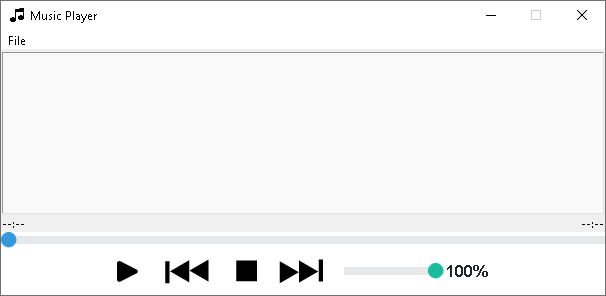
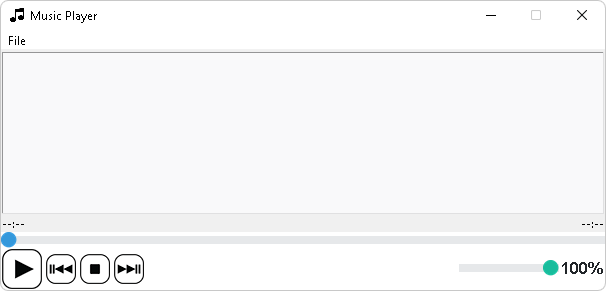
Redesigned buttons images New functionality added Fixed getting error when button is clicked and no audio is added before

Changed region(s): [[0.0, 0.7423, 1.0, 1.0], [0.0, 0.0, 1.0, 0.0619], [0.0, 0.1237, 1.0, 0.1856]]

diff --git a/PROJECT GUIs/MUSIC PLAYER/music_player.py b/PROJECT GUIs/MUSIC PLAYER/music_player.py
@@ -39,10 +39,12 @@ class Music_Player:
         self.master.title('Music Player')
 
         self.play_image = PhotoImage(file=self.resource_path('Play.png'))
-        self.pause_image = PhotoImage(file=self.resource_path('Pause.png'))
-        self.previous_image = PhotoImage(file=self.resource_path('Previous.png'))
         self.stop_image = PhotoImage(file=self.resource_path('Stop.png'))
         self.next_image = PhotoImage(file=self.resource_path('Next.png'))
+        self.mute_image = PhotoImage(file=self.resource_path('Mute.png'))
+        self.pause_image = PhotoImage(file=self.resource_path('Pause.png'))
+        self.unmute_image = PhotoImage(file=self.resource_path('Unmute.png'))
+        self.previous_image = PhotoImage(file=self.resource_path('Previous.png'))
 
         self.menu = Menu(self.master)
         self.file_menu = Menu(self.menu, tearoff=0)
@@ -78,21 +80,30 @@ class Music_Player:
         self.volume_label_var = StringVar()
         self.volume_label_var.set('100%')
         self.volume_var.set(100)
-        self.buttons_frame = Frame(self.master)
+
+        self.bottom_frame = Frame(self.master)
+        self.bottom_frame.pack(side=BOTTOM, fill='x')
         self.buttons_attributes = {'bd': '0', 'bg': 'white', 'activebackground': 'white', 'takefocus': False}
+
+        self.buttons_frame = Frame(self.bottom_frame)
         self.play_button = Button(self.buttons_frame, image=self.play_image, **self.buttons_attributes, command=self.play_or_pause_music)
         self.play_button.pack(side=LEFT)
         self.previous_button = Button(self.buttons_frame, image=self.previous_image, **self.buttons_attributes, command=lambda: self.prev_next_song(button_name='prev'))
-        self.previous_button.pack(side=LEFT, padx=20, ipadx=5, ipady=5)
+        self.previous_button.pack(side=LEFT, padx=2, ipady=5)
         self.stop_button = Button(self.buttons_frame, image=self.stop_image, **self.buttons_attributes, command=self.stop)
         self.stop_button.pack(side=LEFT)
         self.next_button = Button(self.buttons_frame, image=self.next_image, **self.buttons_attributes, command=self.prev_next_song)
-        self.next_button.pack(side=LEFT, padx=20)
-        self.volume_slider = ttk.Scale(self.buttons_frame, from_=0, to=100, variable=self.volume_var, style='success.Horizontal.TScale', takefocus=False, command=self.change_volume)
+        self.next_button.pack(side=LEFT, padx=2)
+        self.buttons_frame.pack(side=LEFT)
+
+        self.volume_frame = Frame(self.bottom_frame)
+        self.mute_unmute_button = Button(self.volume_frame, image=self.unmute_image, **self.buttons_attributes, command=self.mute_unmute_volume)
+        self.mute_unmute_button.pack(side=LEFT)
+        self.volume_slider = ttk.Scale(self.volume_frame, from_=0, to=100, variable=self.volume_var, style='success.Horizontal.TScale', takefocus=False, command=self.change_volume)
         self.volume_slider.pack(side=LEFT)
-        self.volume_label = Label(self.buttons_frame, textvariable=self.volume_label_var, width=4, font=font.Font(weight='bold'))
+        self.volume_label = Label(self.volume_frame, textvariable=self.volume_label_var, width=4, font=font.Font(weight='bold'))
         self.volume_label.pack(side=LEFT)
-        self.buttons_frame.pack(side=BOTTOM, pady=5, expand=False)
+        self.volume_frame.pack(side=RIGHT)
 
         self.initial_position()
 
@@ -100,6 +111,8 @@ class Music_Player:
         self.master.bind('<Return>', self.return_bind)
         self.master.bind('<Control-o>', self.open_files)
         self.master.bind('<Control-O>', self.open_files)
+        self.master.bind('<m>', self.mute_unmute_volume)
+        self.master.bind('<M>', self.mute_unmute_volume)
         self.master.bind('<Key>', self.up_down_direction)
         self.master.bind('<Control-p>', self.get_playlist)
         self.master.bind('<Delete>', self.remove_from_list)
@@ -259,59 +272,59 @@ class Music_Player:
     def play_or_pause_music(self, event=None):
         '''Play or pause audio when play or pause button is pressed'''
 
-        if not self.files:
-            messagebox.showerror('ERR', 'No audio found to play')
-            return
+        try:
+            if self.is_playing is None:  # When any audio is not played before
+                curr_sel = self.audio_list.curselection()
 
-        if self.is_playing is None:  # When any audio is not played before
-            curr_sel = self.audio_list.curselection()
+                if curr_sel:
+                    curr_sel = curr_sel[0]
 
-            if curr_sel:
-                curr_sel = curr_sel[0]
+                else:
+                    curr_sel = 0
 
-            else:
-                curr_sel = 0
+                self.current_playing_index = self.select_index = curr_sel
+                self.audio_list.selection_set(self.current_playing_index)
+                self.audio_list.itemconfig(self.current_playing_index, bg='grey', fg='white')
+                self.audio_list.selection_clear(0, 'end')
+                self.song_name = self.audio_list.get(self.current_playing_index)
+                self.current_song_path = self.files[self.song_name]
 
-            self.current_playing_index = self.select_index = curr_sel
-            self.audio_list.selection_set(self.current_playing_index)
-            self.audio_list.itemconfig(self.current_playing_index, bg='grey', fg='white')
-            self.audio_list.selection_clear(0, 'end')
-            self.song_name = self.audio_list.get(self.current_playing_index)
-            self.current_song_path = self.files[self.song_name]
+                self.is_playing = True  # Here, True represents that the music is being played.
+                img = self.pause_image
+                mixer.music.load(self.current_song_path)  # Loading selected file for playing
+                mixer.music.play()  # Start playing loaded file
 
-            self.is_playing = True  # Here, True represents that the music is being played.
-            img = self.pause_image
-            mixer.music.load(self.current_song_path)  # Loading selected file for playing
-            mixer.music.play()  # Start playing loaded file
+                self.total_time = MP3(self.current_song_path).info.length  # Getting audio length
+                self.seek_scale.config(to=int(self.total_time))
+                self.seek_var.set(0)
+                self.audio_list.see(self.current_playing_index)  # Scrolling to currently playing audio
+                self.total_time_var.set(time.strftime('%H:%M:%S', time.gmtime(self.total_time)))
+                self.audio_list.selection_clear(0, 'end')
 
-            self.total_time = MP3(self.current_song_path).info.length  # Getting audio length
-            self.seek_scale.config(to=int(self.total_time))
-            self.seek_var.set(0)
-            self.audio_list.see(self.current_playing_index)  # Scrolling to currently playing audio
-            self.total_time_var.set(time.strftime('%H:%M:%S', time.gmtime(self.total_time)))
-            self.audio_list.selection_clear(0, 'end')
+                if self.current_playing_index != len(self.files) - 1:
+                    self.eof = False  # Here, setting self.eof to False means last song is not being played yet
 
-            if self.current_playing_index != len(self.files) - 1:
-                self.eof = False  # Here, setting self.eof to False means last song is not being played yet
+                if self.scale_timer:
+                    self.master.after_cancel(self.scale_timer)
 
-            if self.scale_timer:
+                self.update_scale()
+
+            elif self.is_playing is True:  # Pausing audio when another audio is playing
+                mixer.music.pause()
+                img = self.play_image
+                self.is_playing = False
                 self.master.after_cancel(self.scale_timer)
 
-            self.update_scale()
+            elif self.is_playing is False:  # Resume playing audio from where the audio is paused
+                self.is_playing = True
+                img = self.pause_image
+                mixer.music.play(start=self.seek_var.get())
+                self.update_scale()
 
-        elif self.is_playing is True:  # Pausing audio when another audio is playing
-            mixer.music.pause()
-            img = self.play_image
-            self.is_playing = False
-            self.master.after_cancel(self.scale_timer)
+            self.play_button.config(image=img)
 
-        elif self.is_playing is False:  # Resume playing audio from where the audio is paused
-            self.is_playing = True
-            img = self.pause_image
-            mixer.music.play(start=self.seek_var.get())
-            self.update_scale()
-
-        self.play_button.config(image=img)
+        except TclError:  # when user tries to play audio when no audio was added before
+            pass
 
     def stop(self, event=None):
         '''Stop playing audio'''
@@ -397,32 +410,32 @@ class Music_Player:
     def prev_next_song(self, event=None, button_name=None):
         '''Play previous and present audio present in list-box'''
 
-        if not self.files:
-            messagebox.showerror('ERR', 'No song to play')
-            return
+        try:
+            if self.current_playing_index > -1:
+                from_list_box = self.variable.get()
 
-        if self.current_playing_index > -1:
-            from_list_box = self.variable.get()
+                if button_name == 'prev':  # If previous buttons is clicked
+                    if self.current_playing_index == 0:
+                        return
 
-            if button_name == 'prev':  # If previous buttons is clicked
-                if self.current_playing_index == 0:
-                    return
+                    self.audio_list.itemconfig(self.current_playing_index, bg='white', fg='purple')
+                    self.current_playing_index -= 1
 
-                self.audio_list.itemconfig(self.current_playing_index, bg='white', fg='purple')
-                self.current_playing_index -= 1
+                else:  # If next button is clicked
+                    if self.current_playing_index == len(from_list_box) - 1:
+                        return
 
-            else:  # If next button is clicked
-                if self.current_playing_index == len(from_list_box) - 1:
-                    return
+                    self.audio_list.itemconfig(self.current_playing_index, bg='white', fg='purple')
+                    self.current_playing_index += 1
 
-                self.audio_list.itemconfig(self.current_playing_index, bg='white', fg='purple')
-                self.current_playing_index += 1
+                self.audio_list.selection_clear(0, 'end')
+                self.audio_list.see(self.current_playing_index)
+                self.audio_list.selection_set(self.current_playing_index)
+                self.is_playing = None
+                self.play_or_pause_music()
 
-            self.audio_list.selection_clear(0, 'end')
-            self.audio_list.see(self.current_playing_index)
-            self.audio_list.selection_set(self.current_playing_index)
-            self.is_playing = None
-            self.play_or_pause_music()
+        except TclError:
+            pass
 
     def get_playlist(self, event=None):
         '''Get audio path stored in a file'''
@@ -478,6 +491,25 @@ class Music_Player:
         gmtime = time.gmtime(self.total_time - self.current_pos)
         self.total_time_var.set(time.strftime('-%H:%M:%S', gmtime))
         self.rem_timer = self.master.after(500, self.change_time)
+
+    def mute_unmute_volume(self, event=None):
+        '''Mute and Unmute volume'''
+
+        if self.previous_volume is None:  # Volume is not mute before
+            self.previous_volume = int(self.volume_label_var.get()[:-1])
+            self.mute_unmute_button.config(image=self.mute_image)
+            self.volume_slider.config(state='disabled')
+            self.volume_label_var.set('0%')
+            mixer.music.set_volume(0)
+            self.volume_var.set(0)
+
+        else:  # Volume had been muted before
+            self.volume_slider.config(state='normal')
+            self.volume_var.set(self.previous_volume)
+            mixer.music.set_volume(self.previous_volume / 100)
+            self.volume_label_var.set(f'{self.previous_volume}%')
+            self.mute_unmute_button.config(image=self.unmute_image)
+            self.previous_volume = None
 
     def change_volume(self, event=None, change=None):
         '''Increase or decrease volume when user drags volume bar or
